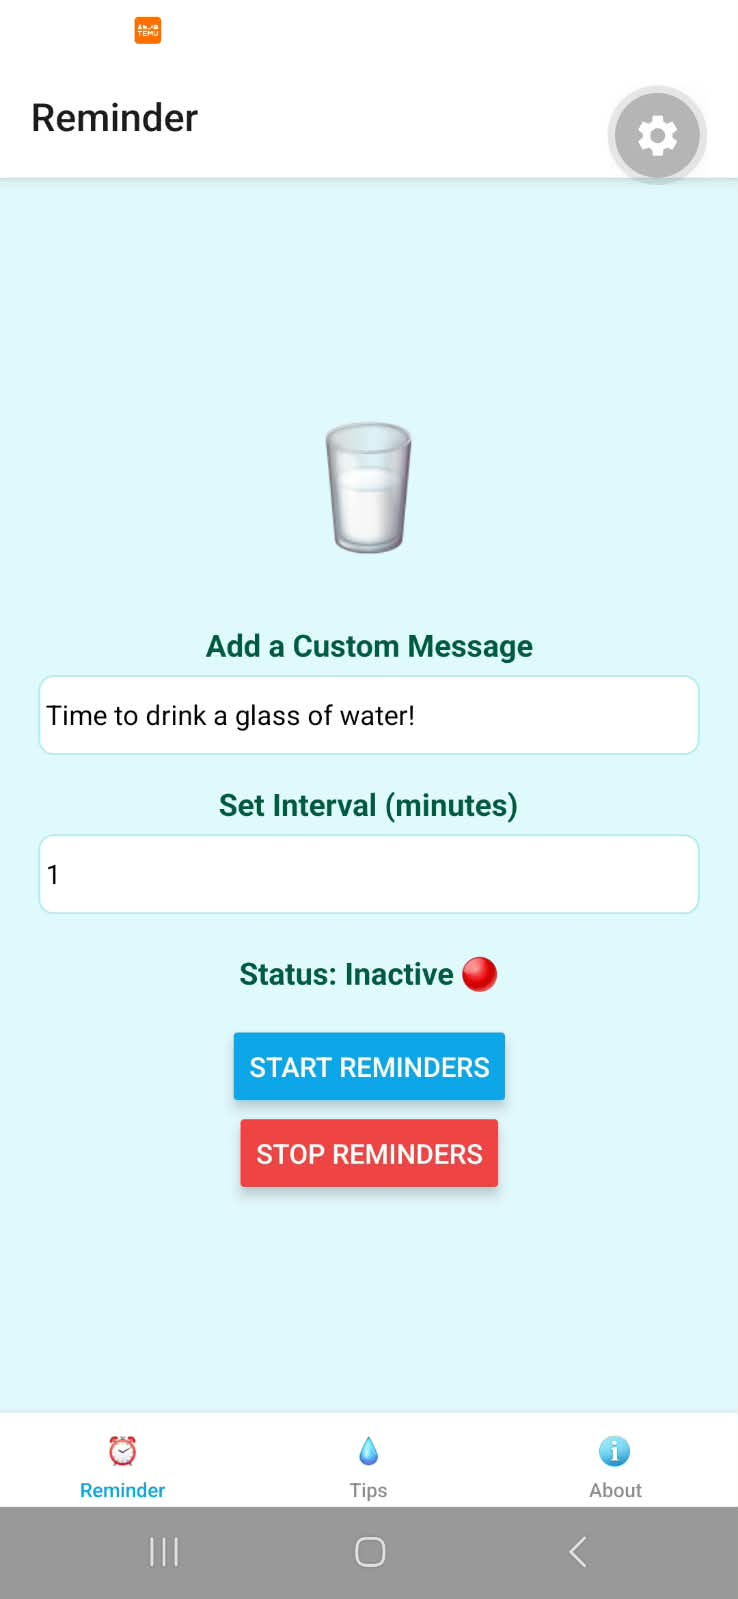
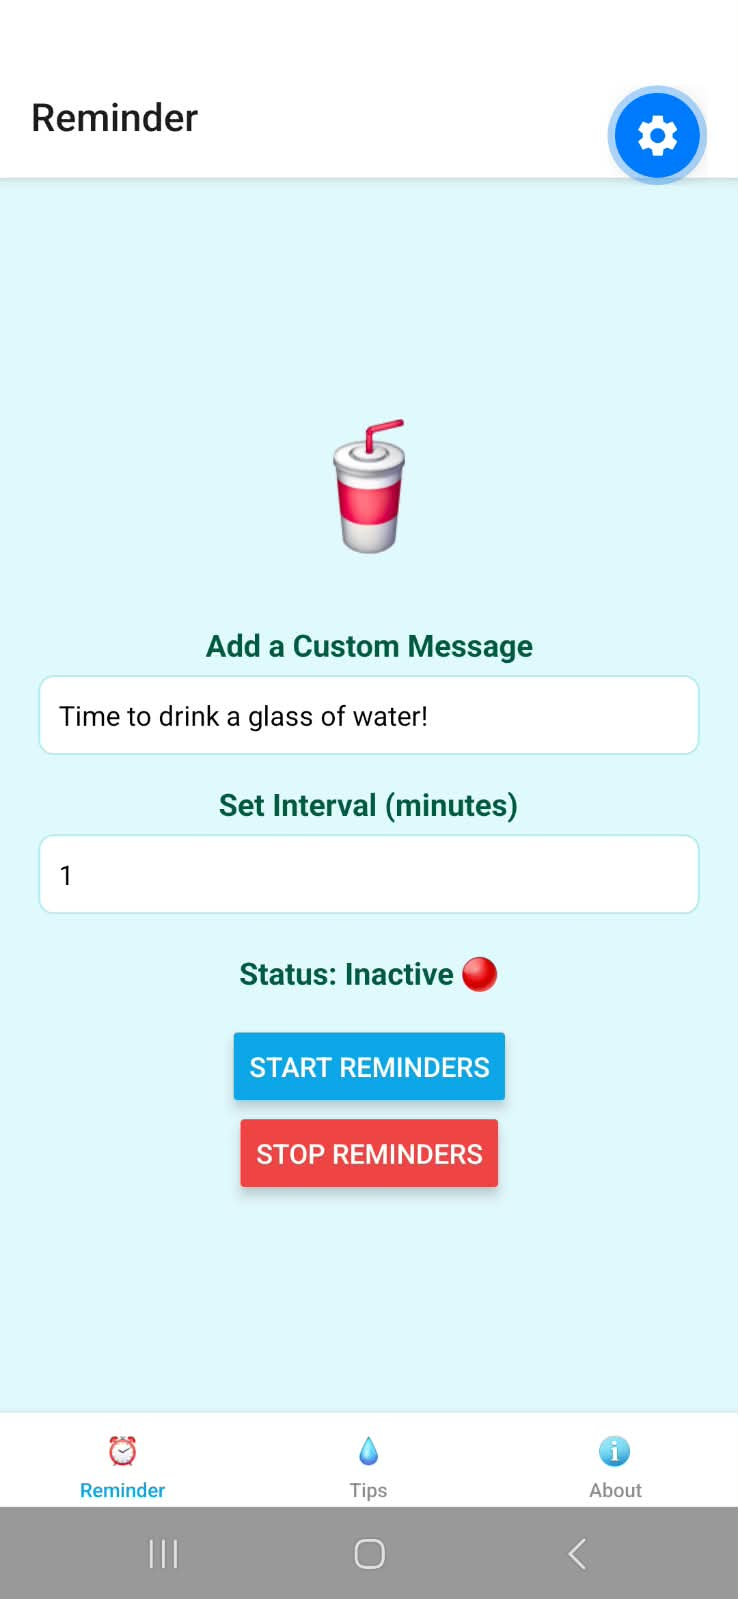
update

diff --git a/src/app/index.tsx b/src/app/index.tsx
@@ -49,7 +49,7 @@ export default function ReminderTab() {
 
   return (
     <View style={styles.container}>
-      <Text style={styles.emoji}>🥛</Text>
+      <Text style={styles.emoji}>🥤</Text>
 
       <Text style={styles.label}>Add a Custom Message</Text>
       <TextInput
